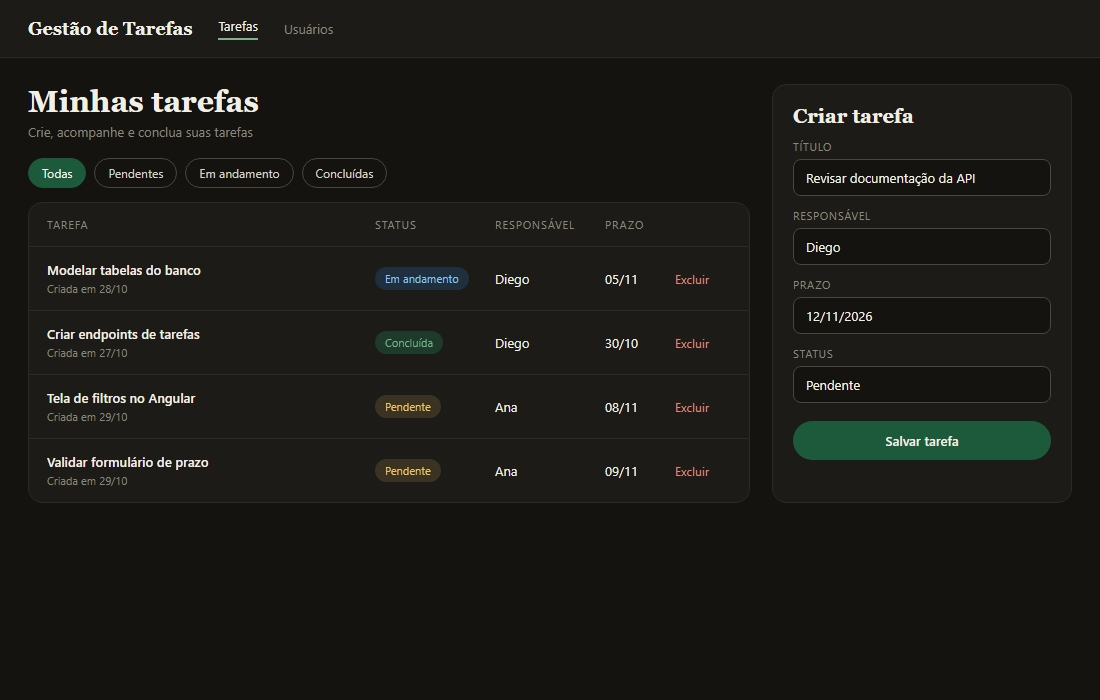
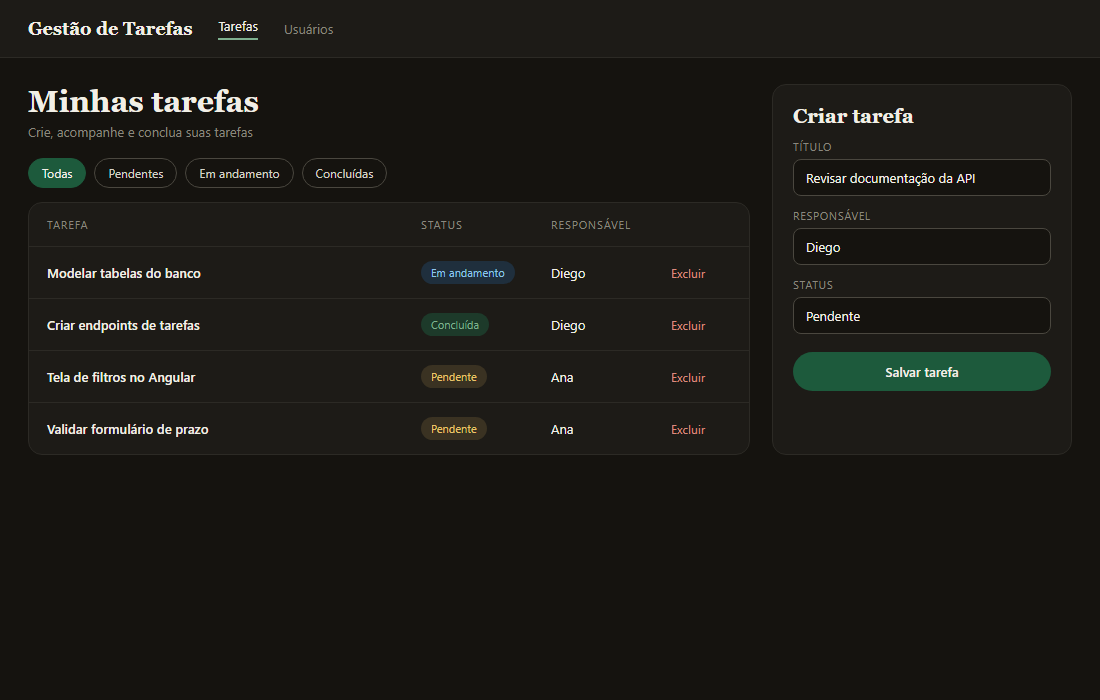
Animações, zoom e cursor nos projetos; maquete sem datas

diff --git a/index.html b/index.html
@@ -919,7 +919,41 @@
     .proj-idx { color: var(--muted) !important; }
     .proj-desc { color: var(--muted) !important; }
     .proj-tags li { color: var(--ink) !important; border-color: var(--rule) !important; }
-  </style>
+      /* Projects motion: reveal on scroll, 3D tilt and screen zoom on hover, custom cursor, lightbox. */
+    .proj-text > * { opacity: 0; transform: translateY(28px); transition: opacity .8s cubic-bezier(.2,.7,.2,1), transform .8s cubic-bezier(.2,.7,.2,1); }
+    .proj.in .proj-text > * { opacity: 1; transform: none; }
+    .proj.in .proj-text > :nth-child(2) { transition-delay: .08s; }
+    .proj.in .proj-text > :nth-child(3) { transition-delay: .16s; }
+    .proj.in .proj-text > :nth-child(4) { transition-delay: .24s; }
+    .proj-tags li { transition: background .3s, color .3s, border-color .3s, transform .3s; }
+    .proj-tags li:hover { background: #1f5b3e; color: #f2efe6 !important; border-color: #1f5b3e !important; transform: translateY(-2px); }
+    .proj h3 { text-decoration: underline 3px transparent; text-underline-offset: 8px; transition: opacity .8s cubic-bezier(.2,.7,.2,1), transform .8s cubic-bezier(.2,.7,.2,1), color .4s, text-decoration-color .4s; }
+    .proj:hover h3 { color: #1f5b3e; text-decoration-color: #1f5b3e; }
+    .laptop { perspective: 1400px; opacity: 0; transform: translateX(60px) scale(.94); transition: opacity 1s cubic-bezier(.2,.7,.2,1), transform 1s cubic-bezier(.2,.7,.2,1); }
+    .proj.rev .laptop { transform: translateX(-60px) scale(.94); }
+    .proj.in .laptop { opacity: 1; transform: none; }
+    .laptop .device { transform: rotateX(var(--rx, 0deg)) rotateY(var(--ry, 0deg)); transform-style: preserve-3d; transition: transform .5s cubic-bezier(.2,.7,.2,1); will-change: transform; }
+    .laptop .lid { transition: box-shadow .5s; }
+    .laptop:hover .lid { box-shadow: 0 50px 90px rgba(31, 91, 62, 0.28); }
+    .laptop .screen { overflow: hidden; border-radius: 6px; position: relative; clip-path: inset(0 0 100% 0); transition: clip-path 1.1s cubic-bezier(.7,0,.2,1) .25s; }
+    .proj.in .laptop .screen { clip-path: inset(0 0 0 0); }
+    .laptop .screen img { border-radius: 0 !important; transform: scale(1.001); transition: transform 1.2s cubic-bezier(.2,.7,.2,1); transform-origin: var(--ox, 50%) var(--oy, 50%); }
+    .laptop:hover .screen img { transform: scale(1.14); }
+    .laptop .screen::after { content: ""; position: absolute; inset: 0; background: linear-gradient(115deg, transparent 30%, rgba(255,255,255,.14) 48%, transparent 62%); transform: translateX(-120%); transition: transform 1s cubic-bezier(.2,.7,.2,1); pointer-events: none; }
+    .laptop:hover .screen::after { transform: translateX(120%); }
+    @media (pointer: fine) { .laptop { cursor: none; } }
+    .proj-cursor { position: fixed; left: 0; top: 0; z-index: 80; width: 108px; height: 108px; margin: -54px 0 0 -54px; border-radius: 50%; background: #1f5b3e; color: #f2efe6; display: grid; place-items: center; text-align: center; font: 600 .78rem/1.2 Inter, system-ui, sans-serif; letter-spacing: .06em; text-transform: uppercase; pointer-events: none; transform: translate3d(var(--cx, -200px), var(--cy, -200px), 0) scale(0); transition: transform .35s cubic-bezier(.2,.7,.2,1); box-shadow: 0 12px 30px rgba(31, 91, 62, .35); }
+    .proj-cursor.on { transform: translate3d(var(--cx), var(--cy), 0) scale(1); }
+    .proj-cursor svg { display: block; margin: 0 auto 4px; }
+    .lightbox { position: fixed; inset: 0; z-index: 90; background: rgba(21, 19, 15, .86); backdrop-filter: blur(8px); display: grid; place-items: center; padding: 24px max(16px, env(safe-area-inset-right, 0px)) 24px max(16px, env(safe-area-inset-left, 0px)); opacity: 0; visibility: hidden; transition: opacity .4s, visibility .4s; cursor: zoom-out; }
+    .lightbox.open { opacity: 1; visibility: visible; }
+    .lightbox img { max-width: min(1100px, 100%); max-height: 86vh; border-radius: 12px; box-shadow: 0 40px 100px rgba(0,0,0,.5); transform: scale(.85) translateY(30px); transition: transform .55s cubic-bezier(.2,.7,.2,1); }
+    .lightbox.open img { transform: none; }
+    .lightbox p { position: absolute; bottom: 20px; left: 0; right: 0; text-align: center; color: #b9b5aa; font-size: .8rem; letter-spacing: .12em; text-transform: uppercase; }
+    @media (prefers-reduced-motion: reduce) {
+      .proj-text > *, .laptop, .laptop .screen, .laptop .device, .laptop .screen img { transition: none !important; transform: none !important; opacity: 1 !important; clip-path: none !important; }
+    }
+</style>
 </head>
 <body>
   <button class="menu-btn" id="menuBtn" type="button" aria-label="Abrir menu" aria-expanded="false"><span></span><span></span></button>
@@ -954,8 +988,7 @@
           <ul class="proj-tags"><li>Java 17</li><li>Spring Boot</li><li>Angular</li><li>MySQL</li><li>Bootstrap</li></ul>
         </div>
         <figure class="laptop">
-          <div class="lid"><img src="maquete-gestao-tarefas.png" alt="Ilustração do Sistema de Gerenciamento de Tarefas"></div>
-          <div class="base"></div>
+          <div class="device"><div class="lid"><div class="screen"><img src="maquete-gestao-tarefas.png" alt="Ilustração do Sistema de Gerenciamento de Tarefas"></div></div><div class="base"></div></div>
         </figure>
       </article>
 
@@ -967,8 +1000,7 @@
           <ul class="proj-tags"><li>Java 17</li><li>Spring Boot</li><li>PostgreSQL</li><li>JPA / Hibernate</li><li>Maven</li></ul>
         </div>
         <figure class="laptop">
-          <div class="lid"><img src="maquete-api-clientes.png" alt="Ilustração da API de Cadastro de Clientes"></div>
-          <div class="base"></div>
+          <div class="device"><div class="lid"><div class="screen"><img src="maquete-api-clientes.png" alt="Ilustração da API de Cadastro de Clientes"></div></div><div class="base"></div></div>
         </figure>
       </article>
 
@@ -980,8 +1012,7 @@
           <ul class="proj-tags"><li>Angular 17</li><li>Angular Material</li><li>TypeScript</li><li>json-server</li></ul>
         </div>
         <figure class="laptop">
-          <div class="lid"><img src="maquete-dashboard-estoque.png" alt="Ilustração do Dashboard de Controle de Estoque"></div>
-          <div class="base"></div>
+          <div class="device"><div class="lid"><div class="screen"><img src="maquete-dashboard-estoque.png" alt="Ilustração do Dashboard de Controle de Estoque"></div></div><div class="base"></div></div>
         </figure>
       </article>
     </section>
@@ -1084,6 +1115,61 @@
   btn.addEventListener("click",function(){ setOpen(!ov.classList.contains("is-open")); });
   document.querySelectorAll("[data-close]").forEach(function(a){ a.addEventListener("click",function(e){ var el=document.getElementById(a.getAttribute("href").slice(1)); setOpen(false); if(el){ e.preventDefault(); setTimeout(function(){ el.scrollIntoView({behavior:"smooth"}); },350); } }); });
   document.addEventListener("keydown",function(e){ if(e.key==="Escape") setOpen(false); });
+})();
+</script>
+<div class="proj-cursor" id="projCursor" aria-hidden="true"><span><svg width="18" height="18" viewBox="0 0 24 24" fill="none" stroke="currentColor" stroke-width="2" stroke-linecap="round"><circle cx="11" cy="11" r="7"/><path d="M21 21l-4.3-4.3M11 8v6M8 11h6"/></svg>Ampliar</span></div>
+<div class="lightbox" id="lightbox" aria-hidden="true"><img alt=""><p>Clique ou Esc para fechar</p></div>
+<script>
+(function () {
+  var projs = document.querySelectorAll(".proj");
+  // Reveal each project as it enters the viewport.
+  if ("IntersectionObserver" in window) {
+    var io = new IntersectionObserver(function (entries) {
+      entries.forEach(function (e) { if (e.isIntersecting) { e.target.classList.add("in"); io.unobserve(e.target); } });
+    }, { threshold: 0.2 });
+    projs.forEach(function (p) { io.observe(p); });
+  } else {
+    projs.forEach(function (p) { p.classList.add("in"); });
+  }
+
+  var cursor = document.getElementById("projCursor");
+  var box = document.getElementById("lightbox");
+  var boxImg = box.querySelector("img");
+  var fine = window.matchMedia("(pointer: fine)").matches;
+
+  document.querySelectorAll(".laptop").forEach(function (lap) {
+    var device = lap.querySelector(".device");
+    var img = lap.querySelector("img");
+    lap.addEventListener("mousemove", function (ev) {
+      var r = lap.getBoundingClientRect();
+      var x = (ev.clientX - r.left) / r.width, y = (ev.clientY - r.top) / r.height;
+      device.style.setProperty("--ry", ((x - 0.5) * 10).toFixed(2) + "deg");
+      device.style.setProperty("--rx", ((0.5 - y) * 8).toFixed(2) + "deg");
+      img.style.setProperty("--ox", (x * 100).toFixed(1) + "%");
+      img.style.setProperty("--oy", (y * 100).toFixed(1) + "%");
+      if (fine) {
+        cursor.style.setProperty("--cx", ev.clientX + "px");
+        cursor.style.setProperty("--cy", ev.clientY + "px");
+        cursor.classList.add("on");
+      }
+    });
+    lap.addEventListener("mouseleave", function () {
+      device.style.setProperty("--rx", "0deg");
+      device.style.setProperty("--ry", "0deg");
+      cursor.classList.remove("on");
+    });
+    lap.addEventListener("click", function () {
+      boxImg.src = img.src;
+      boxImg.alt = img.alt;
+      box.classList.add("open");
+      box.setAttribute("aria-hidden", "false");
+      cursor.classList.remove("on");
+    });
+  });
+
+  function closeBox() { box.classList.remove("open"); box.setAttribute("aria-hidden", "true"); }
+  box.addEventListener("click", closeBox);
+  document.addEventListener("keydown", function (e) { if (e.key === "Escape") closeBox(); });
 })();
 </script>
 </body>
